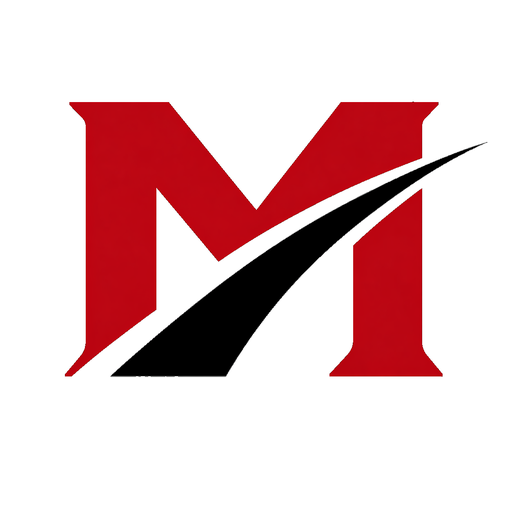
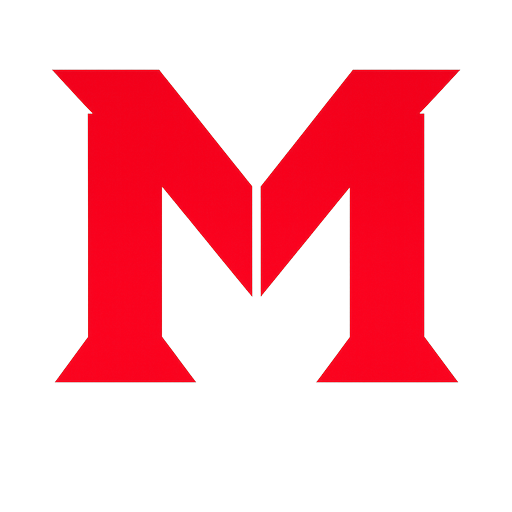
auto-commit for 1fbd11fd-55b3-4fd5-aecf-89db2ff9c40f

diff --git a/frontend/src/components/MasciLogo.jsx b/frontend/src/components/MasciLogo.jsx
@@ -6,18 +6,20 @@ import { cn } from "@/lib/utils";
  * Official MASCI logos. Three variants — these are the ONLY brand assets
  * used anywhere in the app:
  *
- *   - "mark"     → /masci-mark.png         (red M with white swoosh)
+ *   - "mark"     → /masci-mark.png         (bold red M — the new 2026 mark)
  *   - "wordmark" → /masci-wordmark.png     (red MASCI text)
- *   - "lockup"   → /masci-full-lockup.png  (full MASCI SAFETY badge)
+ *   - "lockup"   → /masci-full-lockup.png  (new M badge + MASCI HUB text
+ *                                           + Accountability · Adapt · Overcome)
  *
  * Each logo ships in TWO derived forms:
- *   1. Default     — black canvas keyed to transparent. Floats cleanly on
- *                    the slate-900 dark headers used across the app.
- *   2. -onlight    — black canvas keyed to transparent AND every near-white
- *                    element (SAFETY text, swoosh, slogan stripe) recolored
- *                    to pure black. Drops onto white pages (Cheat Sheet,
- *                    View page print body) without an ugly black plate.
- *                    Red and gray brand elements are preserved untouched.
+ *   1. Default     — transparent canvas. Floats cleanly on the slate-900
+ *                    dark headers used across the app.
+ *   2. -onlight    — transparent canvas AND every near-white element
+ *                    (MASCI tagline text, etc.) recolored to pure black.
+ *                    Drops onto white pages (Cheat Sheet, View page print
+ *                    body) without an ugly black plate. Red brand
+ *                    elements are preserved untouched. Pass `onLight`
+ *                    to opt in.
  *                    Pass `onLight` to opt in.
  *
  * Mark + wordmark are sized by HEIGHT; the lockup is sized by WIDTH because
